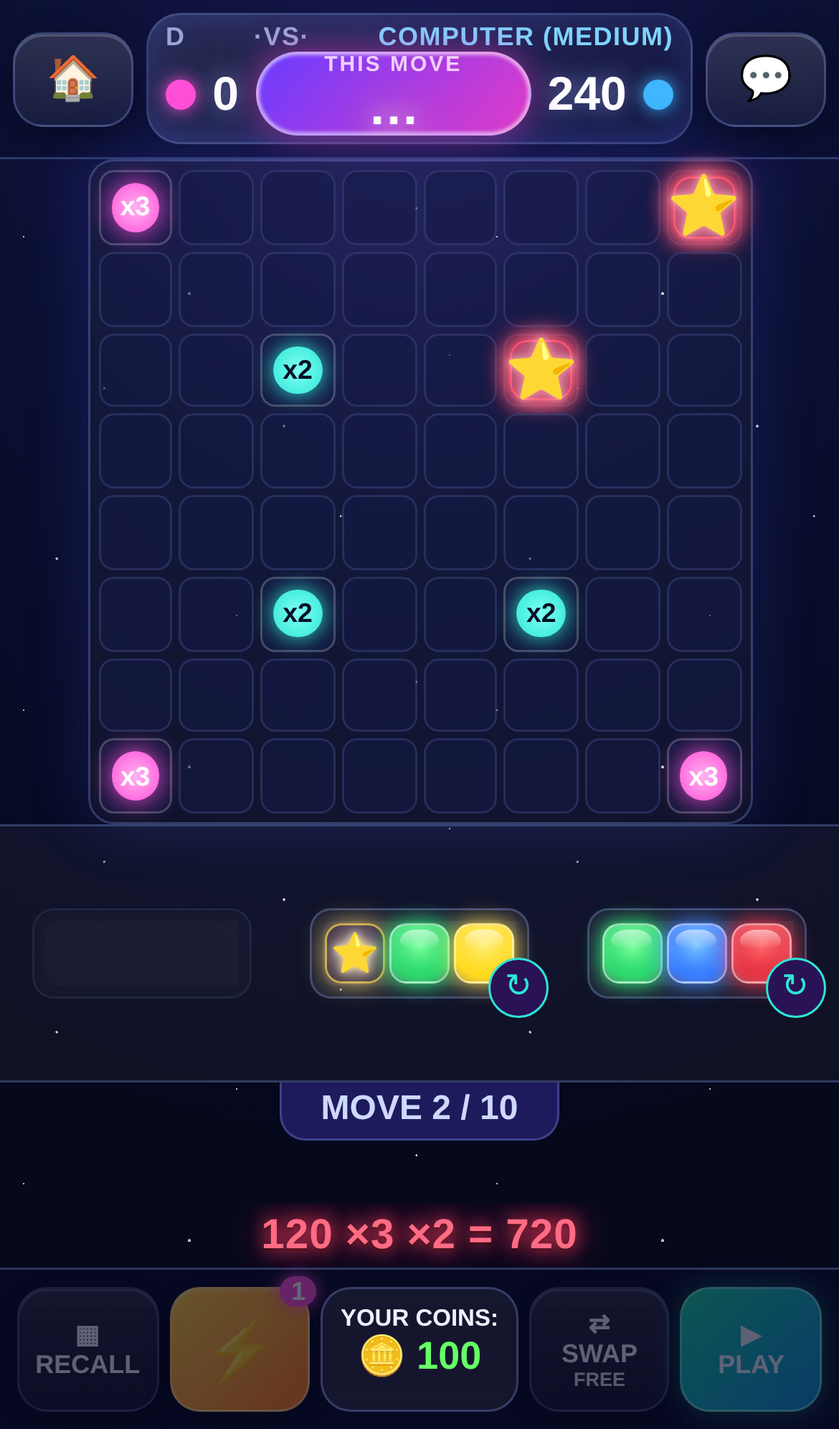
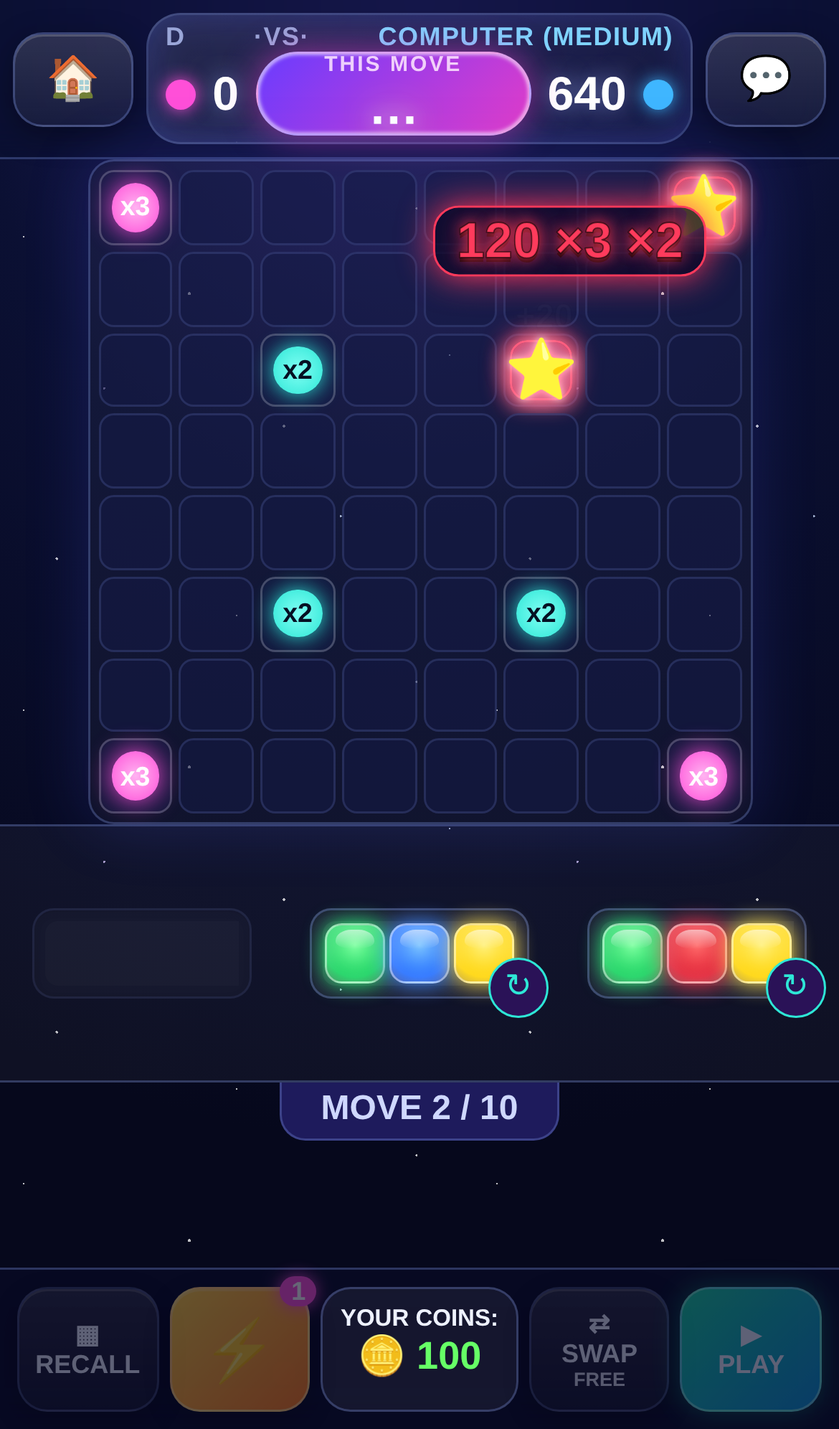
v41: gentler pops + soft booms + finishing chord, on-board rematch panel, floating board scores

diff --git a/app.js b/app.js
@@ -10,12 +10,11 @@ const SFX=(()=>{let ctx=null;const get=()=>{if(!ctx){const C=window.AudioContext
   const s=a.createBufferSource(),f=a.createBiquadFilter(),v=a.createGain();f.type='lowpass';f.frequency.value=lp||1200;v.gain.value=vol||0.4;s.buffer=buf;s.connect(f);f.connect(v);v.connect(a.destination);s.start(t);}
  return {tone,noise,unlock:()=>{const a=get();if(a){const b=a.createBuffer(1,1,22050),s=a.createBufferSource();s.buffer=b;s.connect(a.destination);s.start(0);}},
   click:()=>tone(900,0.05,'square',0.06,0,500),rot:()=>tone(650,0.06,'triangle',0.08,0,900),bad:()=>tone(180,0.15,'sawtooth',0.07,0,120),
-  pop:(i,t0)=>{if(t0==null)t0=i*0.06;const k=Math.min(i,28)/28,st=Math.min(i,24),f=440*Math.pow(2,st/12),v=0.13+0.09*k; // v39: escalating pops, capped
-   tone(f,0.09+0.05*k,'sine',v,t0,f*2.6);noise(0.035+0.03*k,0.1+0.08*k,t0,2600+k*3500);
-   if(k>0.15)tone(f*2,0.08+0.05*k,'triangle',v*0.45,t0+0.005,f*3.6);
-   if(k>0.4)tone(f*1.5,0.12+0.08*k,'sine',v*0.4,t0+0.012,f*2.2);
-   if(k>0.65){tone(f*4,0.06,'sine',0.035+0.03*k,t0+0.03,f*5.2);tone(f*5.04,0.05,'sine',0.03*k,t0+0.055,f*6);}
-   if(k>0.85)tone(f/2,0.16,'triangle',0.05*k,t0,f*0.75);},
+  pop:(i,t0)=>{if(t0==null)t0=i*0.08;if(i>=10){const f=i>=15;noise(f?0.32:0.24,f?0.16:0.11,t0,f?750:600);tone(f?118:126,f?0.38:0.28,'sine',f?0.16:0.12,t0,42);if(f)tone(236,0.18,'triangle',0.03,t0,90);return;} // v41: soft booms past pop 10, fuller from 16
+   const k=Math.min(i,14)/14,st=Math.min(i*0.5,7),f=470*Math.pow(2,st/12),v=0.08+0.025*k; // v41: gentle build, +7 semitone cap
+   tone(f,0.1+0.03*k,'sine',v,t0,f*2.2);noise(0.03,0.06+0.02*k,t0,2400+k*1200);
+   if(k>0.3)tone(f*2,0.08,'triangle',v*0.25*k,t0+0.006,f*3);
+   if(k>0.7)tone(f*1.5,0.12,'sine',v*0.2,t0+0.014,f*2);},
   chime:sc=>{const notes=sc>=300?[523,659,784,1047,1319]:sc>=120?[523,659,784,1047]:[659,784,988];notes.forEach((f,i)=>tone(f,0.25,'triangle',0.12,0.12+i*0.08));},
   boom:()=>{noise(0.6,0.7,0,700);tone(120,0.5,'sine',0.35,0,40);},pass:()=>tone(330,0.12,'triangle',0.08)};})();
 function beep(f){if(f<=250)SFX.bad();else if(f<=650)SFX.click();else SFX.rot();}
@@ -41,7 +40,7 @@ function firstFree(){const r=g.racks[g.turn];for(let s=0;s<3;s++)if(r[3*s]&&!use
 function tilesAt(s,r,c){return L.pieceTiles(g.racks[g.turn],s,g.orient[g.turn][s],r,c);}
 function render(){setTimeout(fit,0);clearTimeout(render.sv);render.sv=setTimeout(autosave,50);const b=show?show.board:cur(),bd=$('board');bd.innerHTML='';
  const pvTiles=placed().concat(ghost&&ghost.ok?ghost.tiles:[]),pv=L.previewMove(g,pvTiles,boost),willSet=new Set(pv.pops.map(q=>q.r*8+q.c));
- const pe=$('prev');const fx=pv.factor||1;pe.textContent='This move: +'+pv.score+(fx>1?' (⚡x'+fx+')':'');const showPv=human()&&!aim&&(pvTiles.length||boost);pe.className='';const pp=$('potprev');pp.textContent=showPv?'+'+pv.score+(fx>1?' x'+fx:''):'—';pp.className=showPv?(pv.score?'hot':'zero'):'';{const tl=$('tally');if(tally){pp.textContent=tally.head||'…';pp.className='hot';tl.textContent=tally.txt;tl.className='on';tl.dataset.c=tally.col||'mix';tl.style.setProperty('--tc',GLOW[tally.col]||'#fff');}else if(tl.className){tl.textContent='';tl.className='';}}
+ const pe=$('prev');const fx=pv.factor||1;pe.textContent='This move: +'+pv.score+(fx>1?' (⚡x'+fx+')':'');const showPv=human()&&!aim&&(pvTiles.length||boost);pe.className='';const pp=$('potprev');pp.textContent=showPv?'+'+pv.score+(fx>1?' x'+fx:''):'—';pp.className=showPv?(pv.score?'hot':'zero'):'';{const tl=$('tally');if(tally){pp.textContent=tally.head||'…';pp.className='hot';tl.textContent=tally.move?tally.txt:'';tl.className='on';tl.dataset.c=tally.col||'mix';tl.style.setProperty('--tc',GLOW[tally.col]||'#fff');}else if(tl.className){tl.textContent='';tl.className='';}}
  const aimSet=new Set(aim&&aim.r!=null?L.blastCells(aim.type,aim.r,aim.c).map(([y,x])=>y*8+x):[]),fxSet=new Set(blastFx.map(([y,x])=>y*8+x));
  const gk=ghost?new Set(ghost.tiles.map(t=>t.r*8+t.c)):new Set();
  for(let r=0;r<8;r++)for(let c=0;c<8;c++){const d=document.createElement('div'),m=L.mult(r,c);d.className='cell'+(m>1?' m'+m:'');d.dataset.r=r;d.dataset.c=c;const t=b[r][c];
@@ -129,9 +128,9 @@ function next(){sel=g.over?null:firstFree();render();if(g.over)return finish();a
  if(g.turn===1){busy=true;render();setTimeout(()=>{const m=L.aiPlan(g,profile.difficulty);if(m.swap&&L.swap(g,0)){busy=false;say('Computer swapped a piece');next();return;}const bl=m.blast?{type:m.blast.type,cells:m.blast.cells,pops:m.blast.pops}:null;pieces=[];
   const pre=g.board.map(r=>r.slice()),res=L.commit(g,m.pl,m.boost);markOwner(1); // state is final now; the rest is only a show
   showMove({who:1,pre,pl:m.pl,boost:m.boost,blast:bl,res},()=>{busy=false;next();});},500);}}
-function finish(){clearSave();const n=NAMES(),w=g.winner,me=meIdx();{const on=isOn(),oo=on&&Online.saved(Online.st.code);if(g.mode!=='pvp'&&!(oo&&oo.counted))setTimeout(()=>misTrack({type:'game',won:w===me,online:on}),900);}
- $('result').innerHTML=(g.resigned!=null?n[g.resigned]+' resigned. ':'')+(w<0?'Tie game!':n[w]+' wins!')+'<br>'+g.scores[0]+' – '+g.scores[1]+'<br>'+(g.mode!=='pvp'&&w===me?'+10 coins! ':'')+'Coins: '+g.coins[me];if(!isOn())profile.coins=g.coins[me];profile.games++;if(w===me)profile.wins++;if(isOn()){const S=Online.st,o=Online.saved(S.code);if(o&&o.counted){profile.games--;if(w===me)profile.wins--;}else profile.coins=Math.max(0,profile.coins+g.coins[me]-(g.coinsStart||g.coins)[me]);$('result').innerHTML=$('result').innerHTML.replace(/Coins: \d+/,'Coins: '+profile.coins);Online.persist({over:true,counted:true,winner:w,scores:g.scores.slice()});Online.leave();renderGames();}saveProfile();showProfile();$('overlay').classList.add('show');}
-function start(mode){$('result').innerHTML='';const nm=$('pname').value.trim();if(!nm){$('pname').focus();say('Enter your name first');return;}profile.name=nm;saveProfile();clearSave();g=L.newGame(mode,null,Math.random()<.5?1:0);g.coins[0]=profile.coins;pieces=[];boost=false;busy=false;sel=firstFree();g._live=true;$('overlay').classList.remove('show');render();autosave();firstBanner();}
+function finish(){endCtx={mode:g.mode,on:isOn()?{code:Online.st.code,id:Online.st.id,names:g.names,me:meIdx()}:null};clearSave();const n=NAMES(),w=g.winner,me=meIdx();{const on=isOn(),oo=on&&Online.saved(Online.st.code);if(g.mode!=='pvp'&&!(oo&&oo.counted))setTimeout(()=>misTrack({type:'game',won:w===me,online:on}),900);}
+ $('result').innerHTML=(g.resigned!=null?n[g.resigned]+' resigned. ':'')+(w<0?'Tie game!':n[w]+' wins!')+'<br>'+g.scores[0]+' – '+g.scores[1]+'<br>'+(g.mode!=='pvp'&&w===me?'+10 coins! ':'')+'Coins: '+g.coins[me];if(!isOn())profile.coins=g.coins[me];profile.games++;if(w===me)profile.wins++;if(isOn()){const S=Online.st,o=Online.saved(S.code);if(o&&o.counted){profile.games--;if(w===me)profile.wins--;}else profile.coins=Math.max(0,profile.coins+g.coins[me]-(g.coinsStart||g.coins)[me]);$('result').innerHTML=$('result').innerHTML.replace(/Coins: \d+/,'Coins: '+profile.coins);Online.persist({over:true,counted:true,winner:w,scores:g.scores.slice()});Online.leave();renderGames();}saveProfile();showProfile();showEnd();}
+function start(mode){hideEnd();$('result').innerHTML='';const nm=$('pname').value.trim();if(!nm){$('pname').focus();say('Enter your name first');return;}profile.name=nm;saveProfile();clearSave();g=L.newGame(mode,null,Math.random()<.5?1:0);g.coins[0]=profile.coins;pieces=[];boost=false;busy=false;sel=firstFree();g._live=true;$('overlay').classList.remove('show');render();autosave();firstBanner();}
 // ---- online rooms ----
 function applySilent(a){if(a.type==='commit'){const p=g.turn;L.commit(g,a.pl,a.boost);markOwner(p);}else if(a.type==='swap')L.swap(g,a.s);else if(a.type==='blast')L.blast(g,a.b,a.r,a.c);else if(a.type==='resign')L.resign(g,a.p);}
 function remoteAct(a){const p=g.turn;
@@ -159,7 +158,7 @@ function updOnl(){const el=$('ostat');if(!isOn()||g.over){el.className='';return
 setInterval(()=>{if(isOn()&&!g.over){if(document.visibilityState==='visible')Online.ping();updOnl();}},90000); // v25: keepalive 90s
 setInterval(()=>{if(isOn())updOnl();},5000);
 document.addEventListener('visibilitychange',()=>{if(!isOn())return;if(document.visibilityState==='visible'){Online.ping('back');}else Online.ping('away');});
-function beginOnline(seed,names,coins,log,rv){pending.length=0;stopWait();lastMove=null;g=L.newGame('pvp',Online.mulberry(seed),firstOf(seed));g.rv=rv===2?2:1;Online.persist({rv:g.rv});g.mode='online';g.names=names;g.coins=coins.slice();g.coinsStart=coins.slice();g.started=true;Online.setGame(seed,names,coins);(log||[]).forEach(applySilent);setTimeout(()=>catchUpShow(seed,coins,log||[]),400);if(!(log||[]).length)setTimeout(firstBanner,300);
+function beginOnline(seed,names,coins,log,rv){hideEnd();pending.length=0;stopWait();lastMove=null;g=L.newGame('pvp',Online.mulberry(seed),firstOf(seed));g.rv=rv===2?2:1;Online.persist({rv:g.rv});g.mode='online';g.names=names;g.coins=coins.slice();g.coinsStart=coins.slice();g.started=true;Online.setGame(seed,names,coins);(log||[]).forEach(applySilent);setTimeout(()=>catchUpShow(seed,coins,log||[]),400);if(!(log||[]).length)setTimeout(firstBanner,300);
  pieces=[];boost=false;busy=false;sel=firstFree();$('overlay').classList.remove('show');$('onl').classList.remove('show');render();updOnl();say(g.turn===meIdx()?'Your turn!':'Waiting for '+NAMES()[g.turn]+'…');}
 const onlStatus=t=>{if(waitT){onlErr(t);return;}$('onlmsg').textContent=t;if(isOn()&&t){$('ostat').textContent='⚠ '+t;$('ostat').className='show away';}else if(isOn())updOnl();};
 $('hostBtn').onclick=()=>{const nm=$('pname').value.trim();if(!nm){$('pname').focus();say('Enter your name first');return;}profile.name=nm;saveProfile();
@@ -385,24 +384,25 @@ function scoreShow(res,who,done){const gd=(res.gd||[]).filter(x=>x.n>=3);
  if(tally&&tally.end)tally.end(true);
  const final=g.scores[who]!=null?g.scores[who]:0,base=final-res.score;
  const nTiles=gd.reduce((s,x)=>s+x.n,0),nM=gd.reduce((s,x)=>s+x.mults.length,0);
- const step=Math.max(45,Math.min(130,1500/nTiles)),mStep=Math.max(140,Math.min(320,900/Math.max(1,nM)));
+ const step=Math.max(70,Math.min(150,1700/nTiles)),mStep=Math.max(140,Math.min(320,900/Math.max(1,nM)));
  const T=[];let t=0,run=0;const at=(ms,f)=>T.push(setTimeout(f,ms));
  pops=res.pops.slice();popStars=res.stars||[];const t0=performance.now();pops.forEach(q=>q.at=1e9);
  tally={who,base,txt:'+0',end:null,t0};render();
  let sum=0;
  gd.forEach((G,gi)=>{let gs=0;const parts=[...G.cells.map(c=>({...c})),...Array(G.stars).fill(null)];
-  parts.forEach((c,k)=>{at(t,()=>{gs+=20;tally.col=c?G.color:'mix';tally.txt=(sum?fmt(sum)+' + ':'')+fmt(gs);if(c){const q=pops.find(q=>q.r===c.r&&q.c===c.c);if(q){q.at=performance.now()-t0;burst1(c,run);}}SFX.pop(run++,0);render();});t+=step;});
-  let cur=G.n*20,txt=fmt(cur);G.mults.forEach(m=>{at(t,()=>{tally.col=G.color;cur*=m;txt+=' ×'+m;tally.txt=(sum?fmt(sum)+' + ':'')+txt;SFX.mult(m,run++);shake(m>2?6:3);render();});t+=mStep;});
-  if(G.mults.length){at(t,()=>{tally.txt=(sum?fmt(sum)+' + ':'')+txt+' = '+fmt(G.s);render();});t+=mStep;}
-  at(t,()=>{sum+=G.s;tally.head='+'+fmt(sum);tally.txt=fmt(sum);tally.col=gd.length>1?'mix':G.color;render();});t+=120;});
+  const stc=(res.stars||[]).filter(q=>q.colors.includes(G.color)).slice(0,G.stars);let gf=null;const ctr=G.cells.concat(stc).reduce((m,q,_,A)=>({r:m.r+q.r/A.length,c:m.c+q.c/A.length}),{r:0,c:0});
+  parts.forEach((c,k)=>{const sp=c||stc[k-G.cells.length];at(t,()=>{gs+=20;tally.col=c?G.color:'mix';if(sp)floatAt(sp.r,sp.c,'+20',c?G.color:'mix','f20');if(!gf)gf=floatAt(ctr.r,ctr.c,'',G.color,'fgrp',true);gf.textContent=fmt(gs);tally.txt=(sum?fmt(sum)+' + ':'')+fmt(gs);if(c){const q=pops.find(q=>q.r===c.r&&q.c===c.c);if(q){q.at=performance.now()-t0;burst1(c,run);}}{const r=run++;if(step>=95||r%2===0)SFX.pop(r,0);}render();});t+=step;});
+  let cur=G.n*20,txt=fmt(cur);G.mults.forEach(m=>{at(t,()=>{tally.col=G.color;cur*=m;txt+=' ×'+m;if(gf){gf.textContent=txt;gf.classList.remove('bump');void gf.offsetWidth;gf.classList.add('bump');}tally.txt=(sum?fmt(sum)+' + ':'')+txt;SFX.mult(m,run++);shake(m>2?6:3);render();});t+=mStep;});
+  if(G.mults.length){at(t,()=>{tally.txt=(sum?fmt(sum)+' + ':'')+txt+' = '+fmt(G.s);if(gf)gf.textContent='= '+fmt(G.s);render();});t+=mStep;}
+  at(t,()=>{if(gf){gf.classList.add('done');const e=gf;setTimeout(()=>e.remove(),900);}sum+=G.s;tally.head='+'+fmt(sum);tally.txt=fmt(sum);tally.col=gd.length>1?'mix':G.color;render();});t+=120;});
  const groupSum=gd.reduce((s,x)=>s+x.s,0),fx=res.factor||1,combo=res.score/(groupSum*fx);
- if(combo>1.0001){at(t,()=>{tally.col='mix';tally.txt=fmt(groupSum)+' ×'+Math.round(combo)+' combo';SFX.mult(2,run++);render();});t+=380;}
- if(fx>1){at(t,()=>{tally.col='gold';tally.txt=fmt(groupSum*(combo>1?combo:1))+' ⚡×'+fx+' = '+fmt(res.score);SFX.mult(fx,run++);shake(5);render();});t+=520;}
- at(t,()=>{tally.col='gold';tally.head='+'+fmt(res.score);tally.txt='+'+fmt(res.score);SFX.chime(res.score);render();});t+=250;
+ if(combo>1.0001){at(t,()=>{tally.move=1;tally.col='mix';tally.txt=fmt(groupSum)+' ×'+Math.round(combo)+' combo';SFX.mult(2,run++);render();});t+=380;}
+ if(fx>1){at(t,()=>{tally.move=1;tally.col='gold';tally.txt=fmt(groupSum*(combo>1?combo:1))+' ⚡×'+fx+' = '+fmt(res.score);SFX.mult(fx,run++);shake(5);render();});t+=520;}
+ at(t,()=>{tally.move=1;tally.col='gold';tally.head='+'+fmt(res.score);tally.txt='+'+fmt(res.score);SFX.finale(res.score);render();});t+=250;
  // count the player's total up
  const cu=Math.min(700,250+res.score/40);at(t,()=>{const s0=performance.now(),b0=base;(function f(){if(!tally)return;const k=Math.min(1,(performance.now()-s0)/cu);tally.base=Math.round(b0+res.score*k);render();if(k<1)T.push(requestAnimationFrame(f));})();});t+=cu+80;
  at(t,()=>{celebrate(res.score);});
- const fin=(skip)=>{T.forEach(x=>{clearTimeout(x);cancelAnimationFrame(x);});removeEventListener('pointerdown',onTap,true);if(!tally)return;tally=null;pops=[];popStars=null;render();if(skip&&res.score>=1000)celebrate(res.score);done&&done();};
+ const fin=(skip)=>{document.querySelectorAll('.flt').forEach(e=>e.remove());T.forEach(x=>{clearTimeout(x);cancelAnimationFrame(x);});removeEventListener('pointerdown',onTap,true);if(!tally)return;tally=null;pops=[];popStars=null;render();if(skip&&res.score>=1000)celebrate(res.score);done&&done();};
  const onTap=e=>{if(e.target.closest&&e.target.closest('#overlay.show,#chat.show,#missions.show'))return;fin(true);};
  setTimeout(()=>addEventListener('pointerdown',onTap,true),150);tally.end=fin;at(t+250,()=>fin(false));
  return t+250;}
@@ -463,3 +463,26 @@ function celebSound(k){if(typeof profile!=='undefined'&&profile.muted)return;con
  const n=3+k*2;for(let i=0;i<n;i++){const st=[0,4,7,12,16,19,24][i%7]+12*Math.floor(i/7);SFX.tone(r*Math.pow(2,st/12),0.18+k*0.02,wave,0.06+k*0.01,i*(0.07-k*0.004),r*Math.pow(2,st/12)*1.01);}
  if(k>=3)SFX.tone(r/2,0.6+k*0.15,'sawtooth',0.04,0,r*4); // rising sweep
  if(k>=4)SFX.noise(0.5+k*0.1,0.25,0,1800);if(k>=6)setTimeout(()=>SFX.boom(),400);}
+
+// v41: finishing chord when the move total lands (warm, resolving, soft; tone() respects mute)
+SFX.finale=sc=>{const r=sc>=5000?392:sc>=1000?349.2:261.6,ch=[1,1.26,1.498,2];
+ ch.forEach((m,i)=>{SFX.tone(r*m,0.9-i*0.08,'triangle',0.055,i*0.045,r*m*1.003);SFX.tone(r*m*2,0.6,'sine',0.018,0.02+i*0.045,r*m*2.004);});
+ SFX.tone(r/2,1.0,'sine',0.04,0,r/2);SFX.tone(r*3,0.35,'sine',0.012,0.22,r*3.01);SFX.tone(r*4,0.3,'sine',0.009,0.3,r*4.01);};
+// ---- v41: end-of-game panel on the board: Rematch (same opponent/settings) + Home; final score stays visible ----
+let endCtx=null,endT=null;
+function hideEnd(){clearInterval(endT);const p=$('endp');if(p)p.classList.remove('show');}
+function showEnd(){const p=$('endp');$('endres').innerHTML=$('result').innerHTML;$('endst').textContent='';$('endRe').disabled=false;$('endRe').textContent='🔁 Rematch';p.classList.add('show');
+ clearInterval(endT);if(endCtx&&endCtx.on)endT=setInterval(endPoll,1500);}
+function endPoll(){const c=endCtx&&endCtx.on;if(!c)return;const o=Online.saved(c.code);if(!o)return;
+ if(o.rematch&&!o.rmSent&&!$('endRe').disabled){$('endRe').textContent='✓ Accept rematch';$('endst').textContent=(c.names?c.names[1-c.me]:'Friend')+' wants a rematch!';}}
+$('endRe').onclick=()=>{if(!endCtx)return;
+ if(!endCtx.on){hideEnd();$('pname').value=profile.name;start(endCtx.mode);return;}
+ const c=endCtx.on,o=Online.saved(c.code)||{};const opp=c.names?c.names[1-c.me]:'friend';
+ if(o.rematch&&!o.rmSent){$('endst').textContent='Joining rematch…';$('endRe').disabled=true;joinRoom(o.rematch);$('onl').classList.remove('show');$('overlay').classList.remove('show');return;}
+ const nc=Online.host(profile.name,profile.coins,{msg:onMsg,status:onlStatus,p2p:onP2P,net:netUpd});Online.sendTo(c.code,o.id||c.id,{t:'rematch',code:nc});Online.upd(c.code,x=>x.rmSent=nc);
+ $('onl').classList.remove('show');$('overlay').classList.remove('show');$('endRe').disabled=true;$('endRe').textContent='⏳ Waiting for opponent…';$('endst').textContent='Rematch sent to '+opp+' · room '+nc;renderGames();};
+$('endHome').onclick=()=>{hideEnd();$('overlay').classList.add('show');renderGames();};
+
+// v41: floating score numbers on the board where the tiles popped (fixed layer, above everything)
+function floatAt(r,c,txt,col,cls,keep){const bd=$('board'),R=bd.getBoundingClientRect(),cw=R.width/8,e=document.createElement('div');e.className='flt '+cls;e.dataset.c=col;e.style.setProperty('--tc',GLOW[col]||'#fff');
+ e.style.left=Math.max(cls==='fgrp'?70:16,Math.min(innerWidth-(cls==='fgrp'?70:16),R.left+(c+0.5)*cw))+'px';e.style.top=(R.top+(r+0.5)*(R.height/8))+'px';e.textContent=txt;document.body.appendChild(e);if(!keep)setTimeout(()=>e.remove(),900);return e;}

diff --git a/index.html b/index.html
@@ -1,7 +1,7 @@
 <!DOCTYPE html><html><head><meta charset="utf-8"><meta name="viewport" content="width=device-width,initial-scale=1,viewport-fit=cover,user-scalable=no">
-<title>Star Tiles</title><link rel="manifest" href="manifest.json"><link rel="apple-touch-icon" href="icon-180.png?v=40"><link rel="apple-touch-startup-image" media="(device-width: 375px) and (device-height: 667px) and (-webkit-device-pixel-ratio: 2)" href="splash-750x1334.png"><link rel="apple-touch-startup-image" media="(device-width: 390px) and (device-height: 844px) and (-webkit-device-pixel-ratio: 3)" href="splash-1170x2532.png"><link rel="apple-touch-startup-image" media="(device-width: 393px) and (device-height: 852px) and (-webkit-device-pixel-ratio: 3)" href="splash-1179x2556.png"><link rel="apple-touch-startup-image" media="(device-width: 428px) and (device-height: 926px) and (-webkit-device-pixel-ratio: 3)" href="splash-1284x2778.png"><link rel="apple-touch-startup-image" media="(device-width: 430px) and (device-height: 932px) and (-webkit-device-pixel-ratio: 3)" href="splash-1290x2796.png">
+<title>Star Tiles</title><link rel="manifest" href="manifest.json"><link rel="apple-touch-icon" href="icon-180.png?v=41"><link rel="apple-touch-startup-image" media="(device-width: 375px) and (device-height: 667px) and (-webkit-device-pixel-ratio: 2)" href="splash-750x1334.png"><link rel="apple-touch-startup-image" media="(device-width: 390px) and (device-height: 844px) and (-webkit-device-pixel-ratio: 3)" href="splash-1170x2532.png"><link rel="apple-touch-startup-image" media="(device-width: 393px) and (device-height: 852px) and (-webkit-device-pixel-ratio: 3)" href="splash-1179x2556.png"><link rel="apple-touch-startup-image" media="(device-width: 428px) and (device-height: 926px) and (-webkit-device-pixel-ratio: 3)" href="splash-1284x2778.png"><link rel="apple-touch-startup-image" media="(device-width: 430px) and (device-height: 932px) and (-webkit-device-pixel-ratio: 3)" href="splash-1290x2796.png">
 <meta name="apple-mobile-web-app-capable" content="yes"><meta name="mobile-web-app-capable" content="yes"><meta name="apple-mobile-web-app-status-bar-style" content="black"><meta name="theme-color" content="#0b1033">
-<link rel="stylesheet" href="style.css?v=40"></head><body>
+<link rel="stylesheet" href="style.css?v=41"></head><body>
 <div id="app">
 <header><button class="btn sq" id="menuBtn" aria-label="Menu">🏠</button>
 <div id="hud"><div class="names"><span id="n0" class="p0">DHAVAL P</span><span class="vs">·VS·</span><span id="n1">COMPUTER</span></div>
@@ -20,7 +20,7 @@
 <button class="btn big" data-p="cross">✚ CROSS BLAST<small>Clears a whole row + column</small></button>
 <button class="btn big cancel" data-p="cancel">Cancel</button></div></div>
 <div id="tbar"><span id="tmsg">Tap a target square</span><button class="btn" id="tgo" disabled>BLAST!</button><button class="btn cancel" id="tno">Cancel</button></div>
-<div id="missions"><div class="chcard miscard"><div class="chhead"><b>🎯 Daily missions</b><span id="misreset"></span><button class="btn" id="misClose">✕</button></div><div id="mislist"></div></div></div><div id="chat"><div class="chcard"><div class="chhead"><b>💬 Chat</b><span id="chwho"></span><button class="btn" id="chClose">✕</button></div>
+<div id="endp"><div class="endc"><div id="endres"></div><div id="endst"></div><div class="endb"><button class="btn big" id="endRe">🔁 Rematch</button><button class="btn" id="endHome">🏠 Home</button></div></div></div><div id="missions"><div class="chcard miscard"><div class="chhead"><b>🎯 Daily missions</b><span id="misreset"></span><button class="btn" id="misClose">✕</button></div><div id="mislist"></div></div></div><div id="chat"><div class="chcard"><div class="chhead"><b>💬 Chat</b><span id="chwho"></span><button class="btn" id="chClose">✕</button></div>
 <div id="chlist"></div><div class="chemo"><button data-e="👍">👍</button><button data-e="😂">😂</button><button data-e="😮">😮</button><button data-e="🔥">🔥</button><button data-e="😭">😭</button><button data-e="🎉">🎉</button><button data-e="👏">👏</button><button data-e="😡">😡</button></div>
 <div class="chrow"><input id="chText" maxlength="200" placeholder="Message…" autocomplete="off"><button class="btn" id="chSend">Send</button></div></div></div><div id="onl"><div class="card"><h2>🌐 Online room</h2><div id="onlcode" class="code">——</div><div class="coderow" id="coderow"><button class="btn" id="copyCode">📋 Copy</button><button class="btn" id="shareCode">📤 Share link</button></div><p id="onlmsg"></p><p id="onlerr"></p><p id="onldbg" class="dbg" title="tap to copy log"></p><button class="btn big" id="onlRetry" style="display:none">↻ Retry</button><button class="btn big cancel" id="onlCancel">Cancel</button></div></div>
 <div id="overlay" class="show"><div class="card"><h1><span class="lg">✦</span> Star Tiles</h1><button class="btn big resume" id="onlResume" style="display:none">🌐 Continue online game</button><button class="btn big quit" id="quitBtn" style="display:none">🏳 Quit current game</button><button class="btn big mis-open" id="misBtn">🎯 Daily missions</button><div id="mygames" style="display:none"></div><button class="btn big resume" id="resumeBtn" style="display:none">▶ Resume game</button><p id="result"></p><details class="howto"><summary>How to play</summary><p id="msg">It takes 3 to score: connect 3+ same-color tiles to score and clear them. Stars from your rack are wild and permanent. Scoring: each group = 20 × every tile in it (stars included) × every x2/x3 square it covers; a move scores the sum of its groups (Double makes it x2). Drag your 3-tile pieces onto the board (tap again or ↻ to rotate). Place 0–3 pieces anywhere they fit on empty squares, then PLAY. ⚡ Power-ups (2 per game, 1 per move): Double Points (x2, once per move), Bomb (3×3) or Cross Blast (row + column). Blasts clear everything in the area, even stars, but score nothing. Coins: start with 100, win = +10. Each game has 1 free swap and 2 free power-ups; extra swaps or power-ups cost 50 coins. 10 moves each — higher score wins!</p></details>
@@ -29,8 +29,8 @@
 <div class="diff" id="diff"><button data-d="easy">EASY</button><button data-d="medium">MEDIUM</button><button data-d="hard">HARD</button><button data-d="expert">EXPERT</button></div>
 <button class="btn big" id="vsAI">Play vs COMPUTER</button><button class="btn big" id="vsP">Pass &amp; Play (2 players)</button>
 <div class="online"><button class="btn big" id="hostBtn">🌐 Host online game</button>
-<div class="joinrow"><input id="joinCode" maxlength="14" placeholder="ROOM CODE" autocapitalize="characters" autocomplete="off"><button class="btn" id="joinBtn">Join</button></div></div><div id="ver">v40</div></div></div>
-</div><script src="logic.js?v=40"></script><script src="missions.js?v=40"></script><script src="mq.js?v=40"></script><script src="online.js?v=40"></script><script src="app.js?v=40"></script>
+<div class="joinrow"><input id="joinCode" maxlength="14" placeholder="ROOM CODE" autocapitalize="characters" autocomplete="off"><button class="btn" id="joinBtn">Join</button></div></div><div id="ver">v41</div></div></div>
+</div><script src="logic.js?v=41"></script><script src="missions.js?v=41"></script><script src="mq.js?v=41"></script><script src="online.js?v=41"></script><script src="app.js?v=41"></script>
 <script>
 if('serviceWorker'in navigator){let reloaded=false;const had=!!navigator.serviceWorker.controller;
  navigator.serviceWorker.addEventListener('controllerchange',()=>{if(reloaded||!had)return;try{if(document.getElementById('onl').classList.contains('show')||(typeof g!=='undefined'&&g&&g.mode==='online'))return;}catch(e){} // v24: never reload mid-connect / online game

diff --git a/style.css b/style.css
@@ -335,3 +335,21 @@ footer{background:rgba(8,10,36,.75)!important;border-top:1px solid var(--line);b
 #tally[data-c=mix]{background:linear-gradient(90deg,#ff5fd2,#ffd23a,#3ddc84,#3fa6ff,#b45cff);-webkit-background-clip:text;background-clip:text;color:transparent;text-shadow:none;filter:drop-shadow(0 0 6px rgba(255,255,255,.6))}
 #tally[data-c=gold]{color:#ffd84a;--tc:#ffb020}
 @keyframes tbump{from{transform:scale(1.12)}to{transform:scale(1)}}
+
+/* v41 end panel */
+#endp{position:fixed;left:0;right:0;bottom:0;z-index:1120;display:none;justify-content:center;padding:0 10px max(12px,env(safe-area-inset-bottom));pointer-events:none}#endp.show{display:flex}
+.endc{pointer-events:auto;width:100%;max-width:460px;background:#1a1850;border:1px solid var(--line);border-radius:18px;padding:12px 14px;box-shadow:0 -6px 30px #000a,0 0 24px rgba(164,60,255,.35);text-align:center;color:#eef2ff}
+#endres{font-weight:800;font-size:16px;line-height:1.35}#endst{min-height:18px;color:#ffd84a;font-size:13px;margin:4px 0}
+.endb{display:flex;gap:8px;margin-top:6px}.endb #endRe{flex:1;background:linear-gradient(135deg,#ff4fd8,#a43cff)!important;color:#fff!important}.endb #endHome{flex:none;padding:0 16px}
+
+/* v41 floating board scores */
+.flt{position:fixed;z-index:1000;transform:translate(-50%,-50%);pointer-events:none;font-weight:900;white-space:nowrap;color:var(--tc);font-variant-numeric:tabular-nums;
+ text-shadow:0 0 6px var(--tc),0 0 14px var(--tc),0 2px 0 #000,0 0 2px #000;-webkit-text-stroke:.6px rgba(0,0,0,.55)}
+.flt.f20{font-size:clamp(13px,4vw,18px);animation:f20 .85s ease-out forwards}
+.flt.fgrp{font-size:clamp(18px,6vw,28px);padding:2px 10px;border-radius:12px;background:rgba(10,8,40,.78);border:1.5px solid var(--tc);box-shadow:0 0 16px var(--tc);animation:fin .25s cubic-bezier(.2,1.6,.4,1) both}
+.flt.fgrp.bump{animation:fbump .22s ease-out}.flt.fgrp.done{animation:fout .8s ease-in forwards}
+.flt[data-c=mix]{--tc:#ffd84a}
+@keyframes f20{0%{opacity:0;transform:translate(-50%,-30%) scale(.7)}20%{opacity:1;transform:translate(-50%,-70%) scale(1.1)}100%{opacity:0;transform:translate(-50%,-180%) scale(1)}}
+@keyframes fin{from{opacity:0;transform:translate(-50%,-50%) scale(.4)}to{opacity:1;transform:translate(-50%,-50%) scale(1)}}
+@keyframes fbump{from{transform:translate(-50%,-50%) scale(1.25)}to{transform:translate(-50%,-50%) scale(1)}}
+@keyframes fout{0%{opacity:1;transform:translate(-50%,-50%) scale(1)}100%{opacity:0;transform:translate(-50%,-160%) scale(.8)}}

diff --git a/sw.js b/sw.js
@@ -1,4 +1,4 @@
-const V='v40',C='star-tiles-'+V,F=['./','index.html','style.css?v=40','app.js?v=40','logic.js?v=40','missions.js?v=40','mq.js?v=40','online.js?v=40','manifest.json','icon-180.png','icon-192.png','icon-512.png'];
+const V='v41',C='star-tiles-'+V,F=['./','index.html','style.css?v=41','app.js?v=41','logic.js?v=41','missions.js?v=41','mq.js?v=41','online.js?v=41','manifest.json','icon-180.png','icon-192.png','icon-512.png'];
 self.addEventListener('install',e=>{self.skipWaiting();e.waitUntil(caches.open(C).then(c=>c.addAll(F)).catch(()=>{}));});
 self.addEventListener('activate',e=>e.waitUntil(caches.keys().then(k=>Promise.all(k.filter(x=>x!==C).map(x=>caches.delete(x)))).then(()=>self.clients.claim())));
 // network-first for pages/code; cache only as offline fallback
